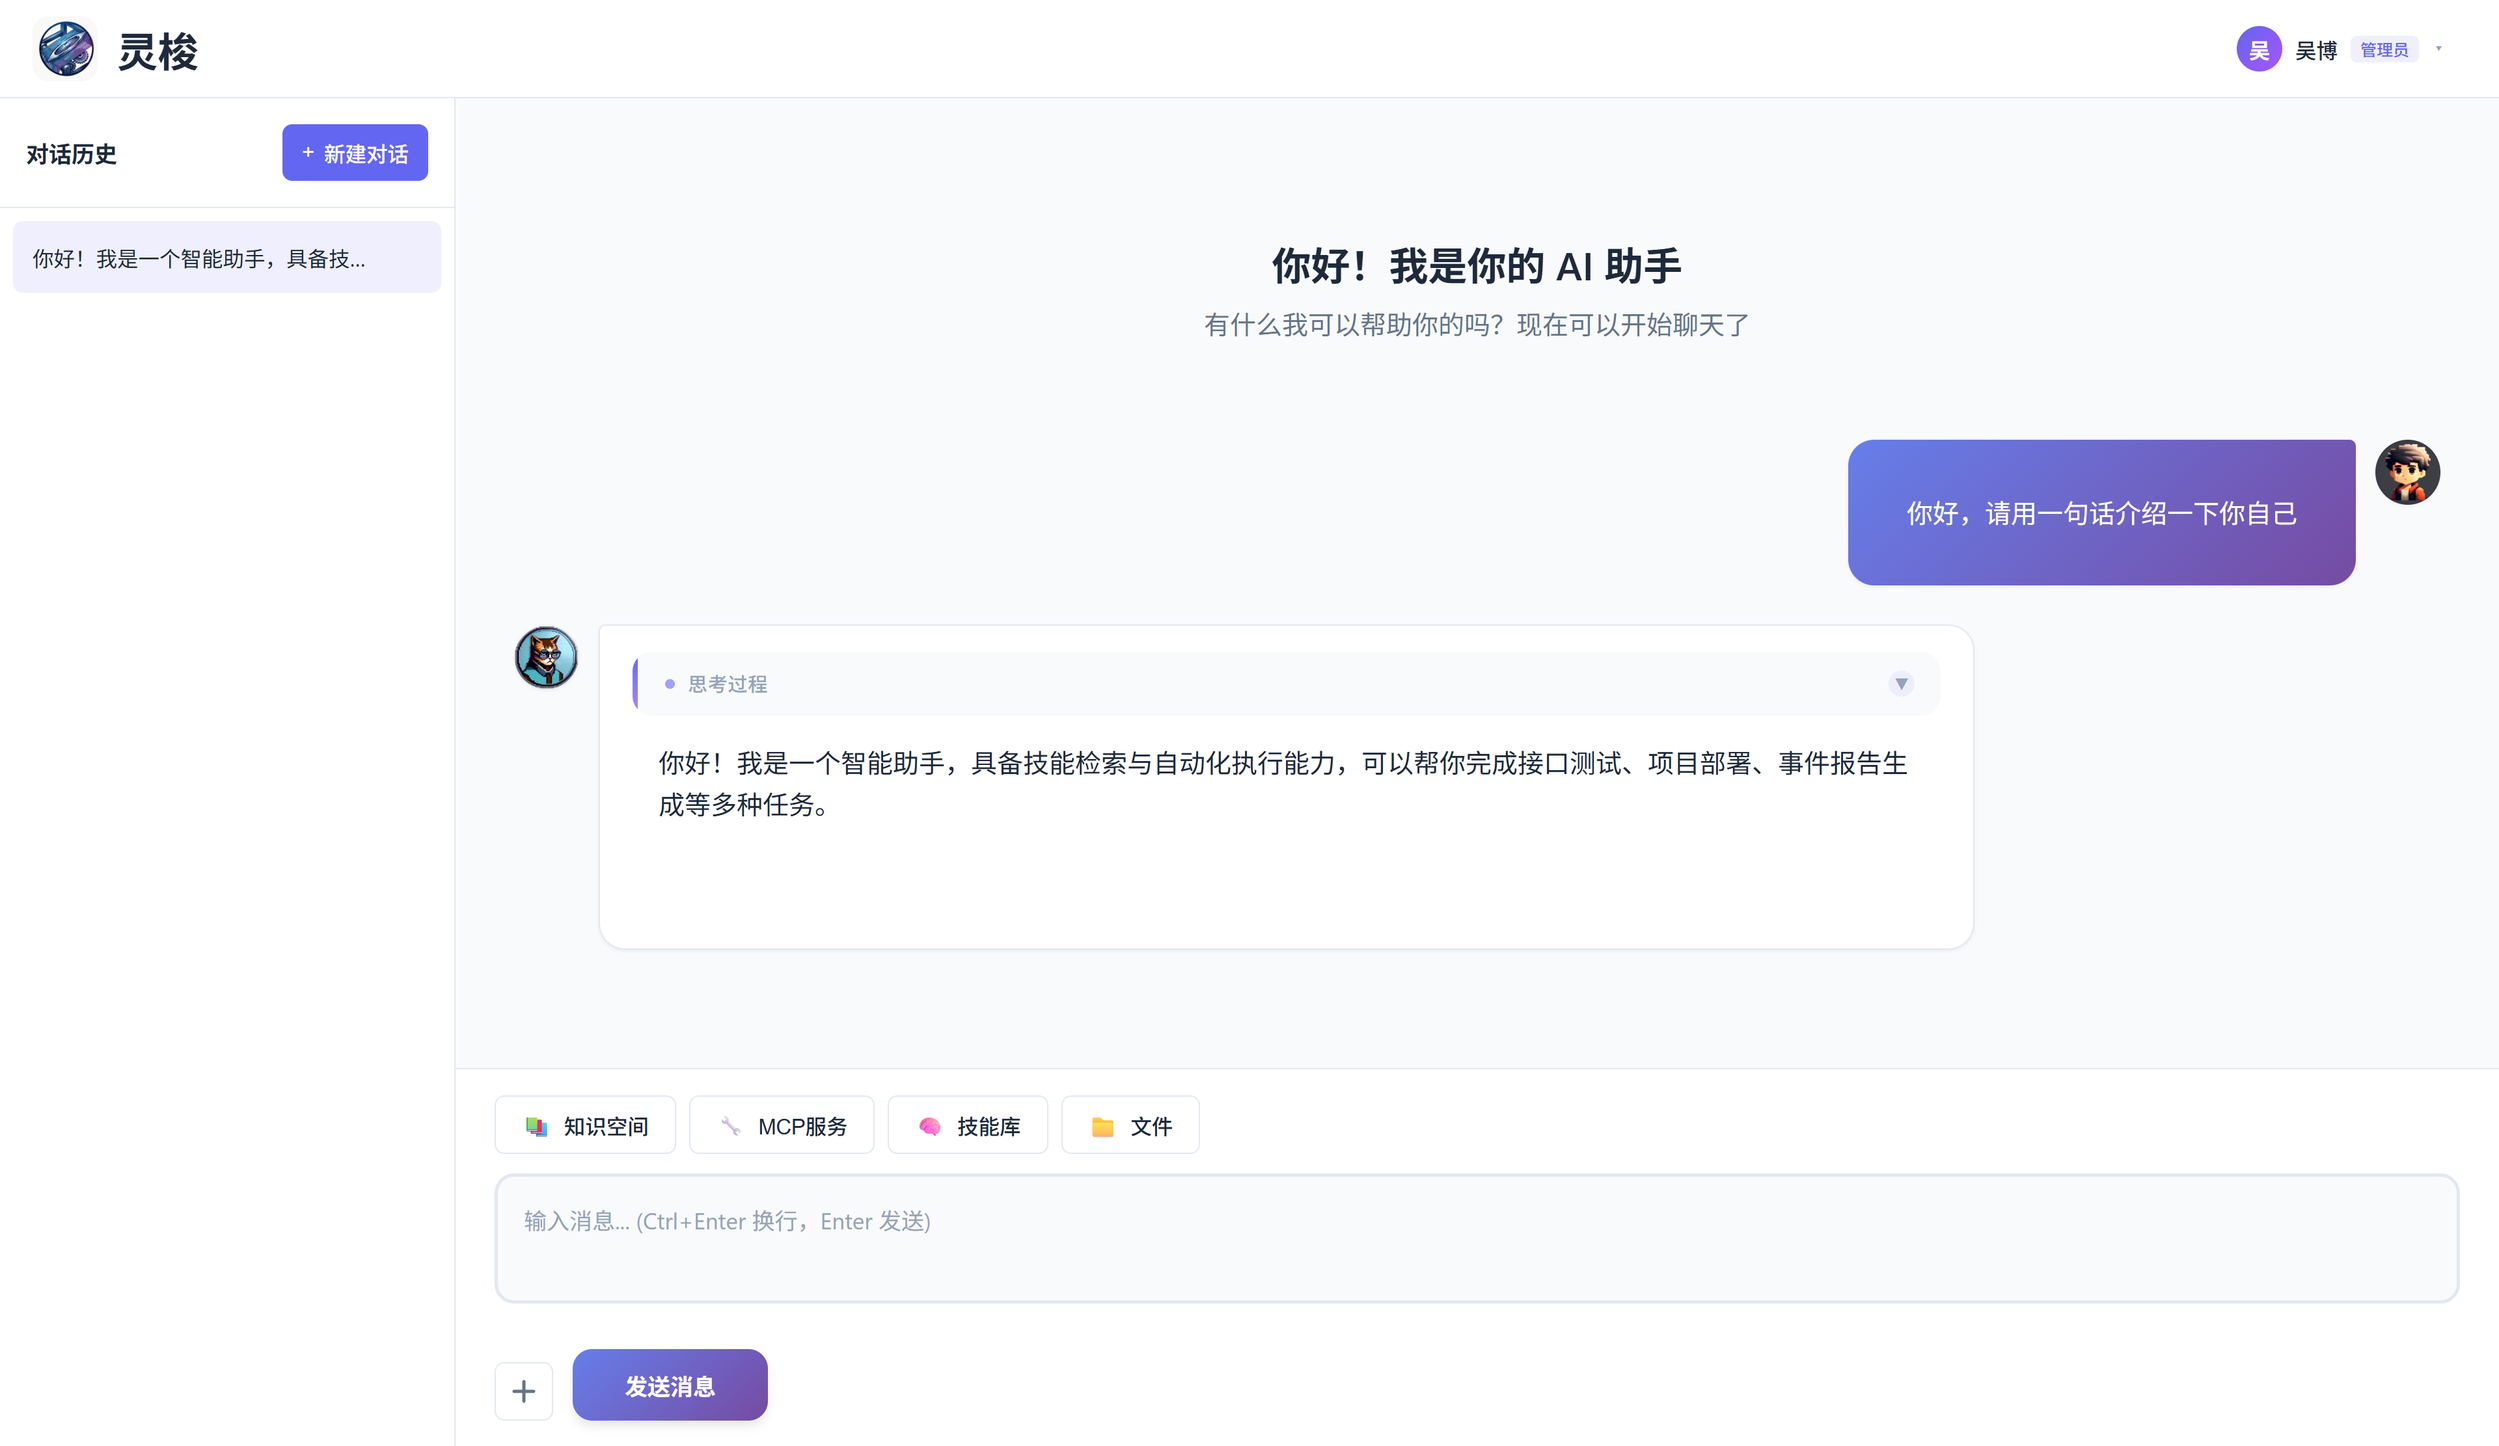
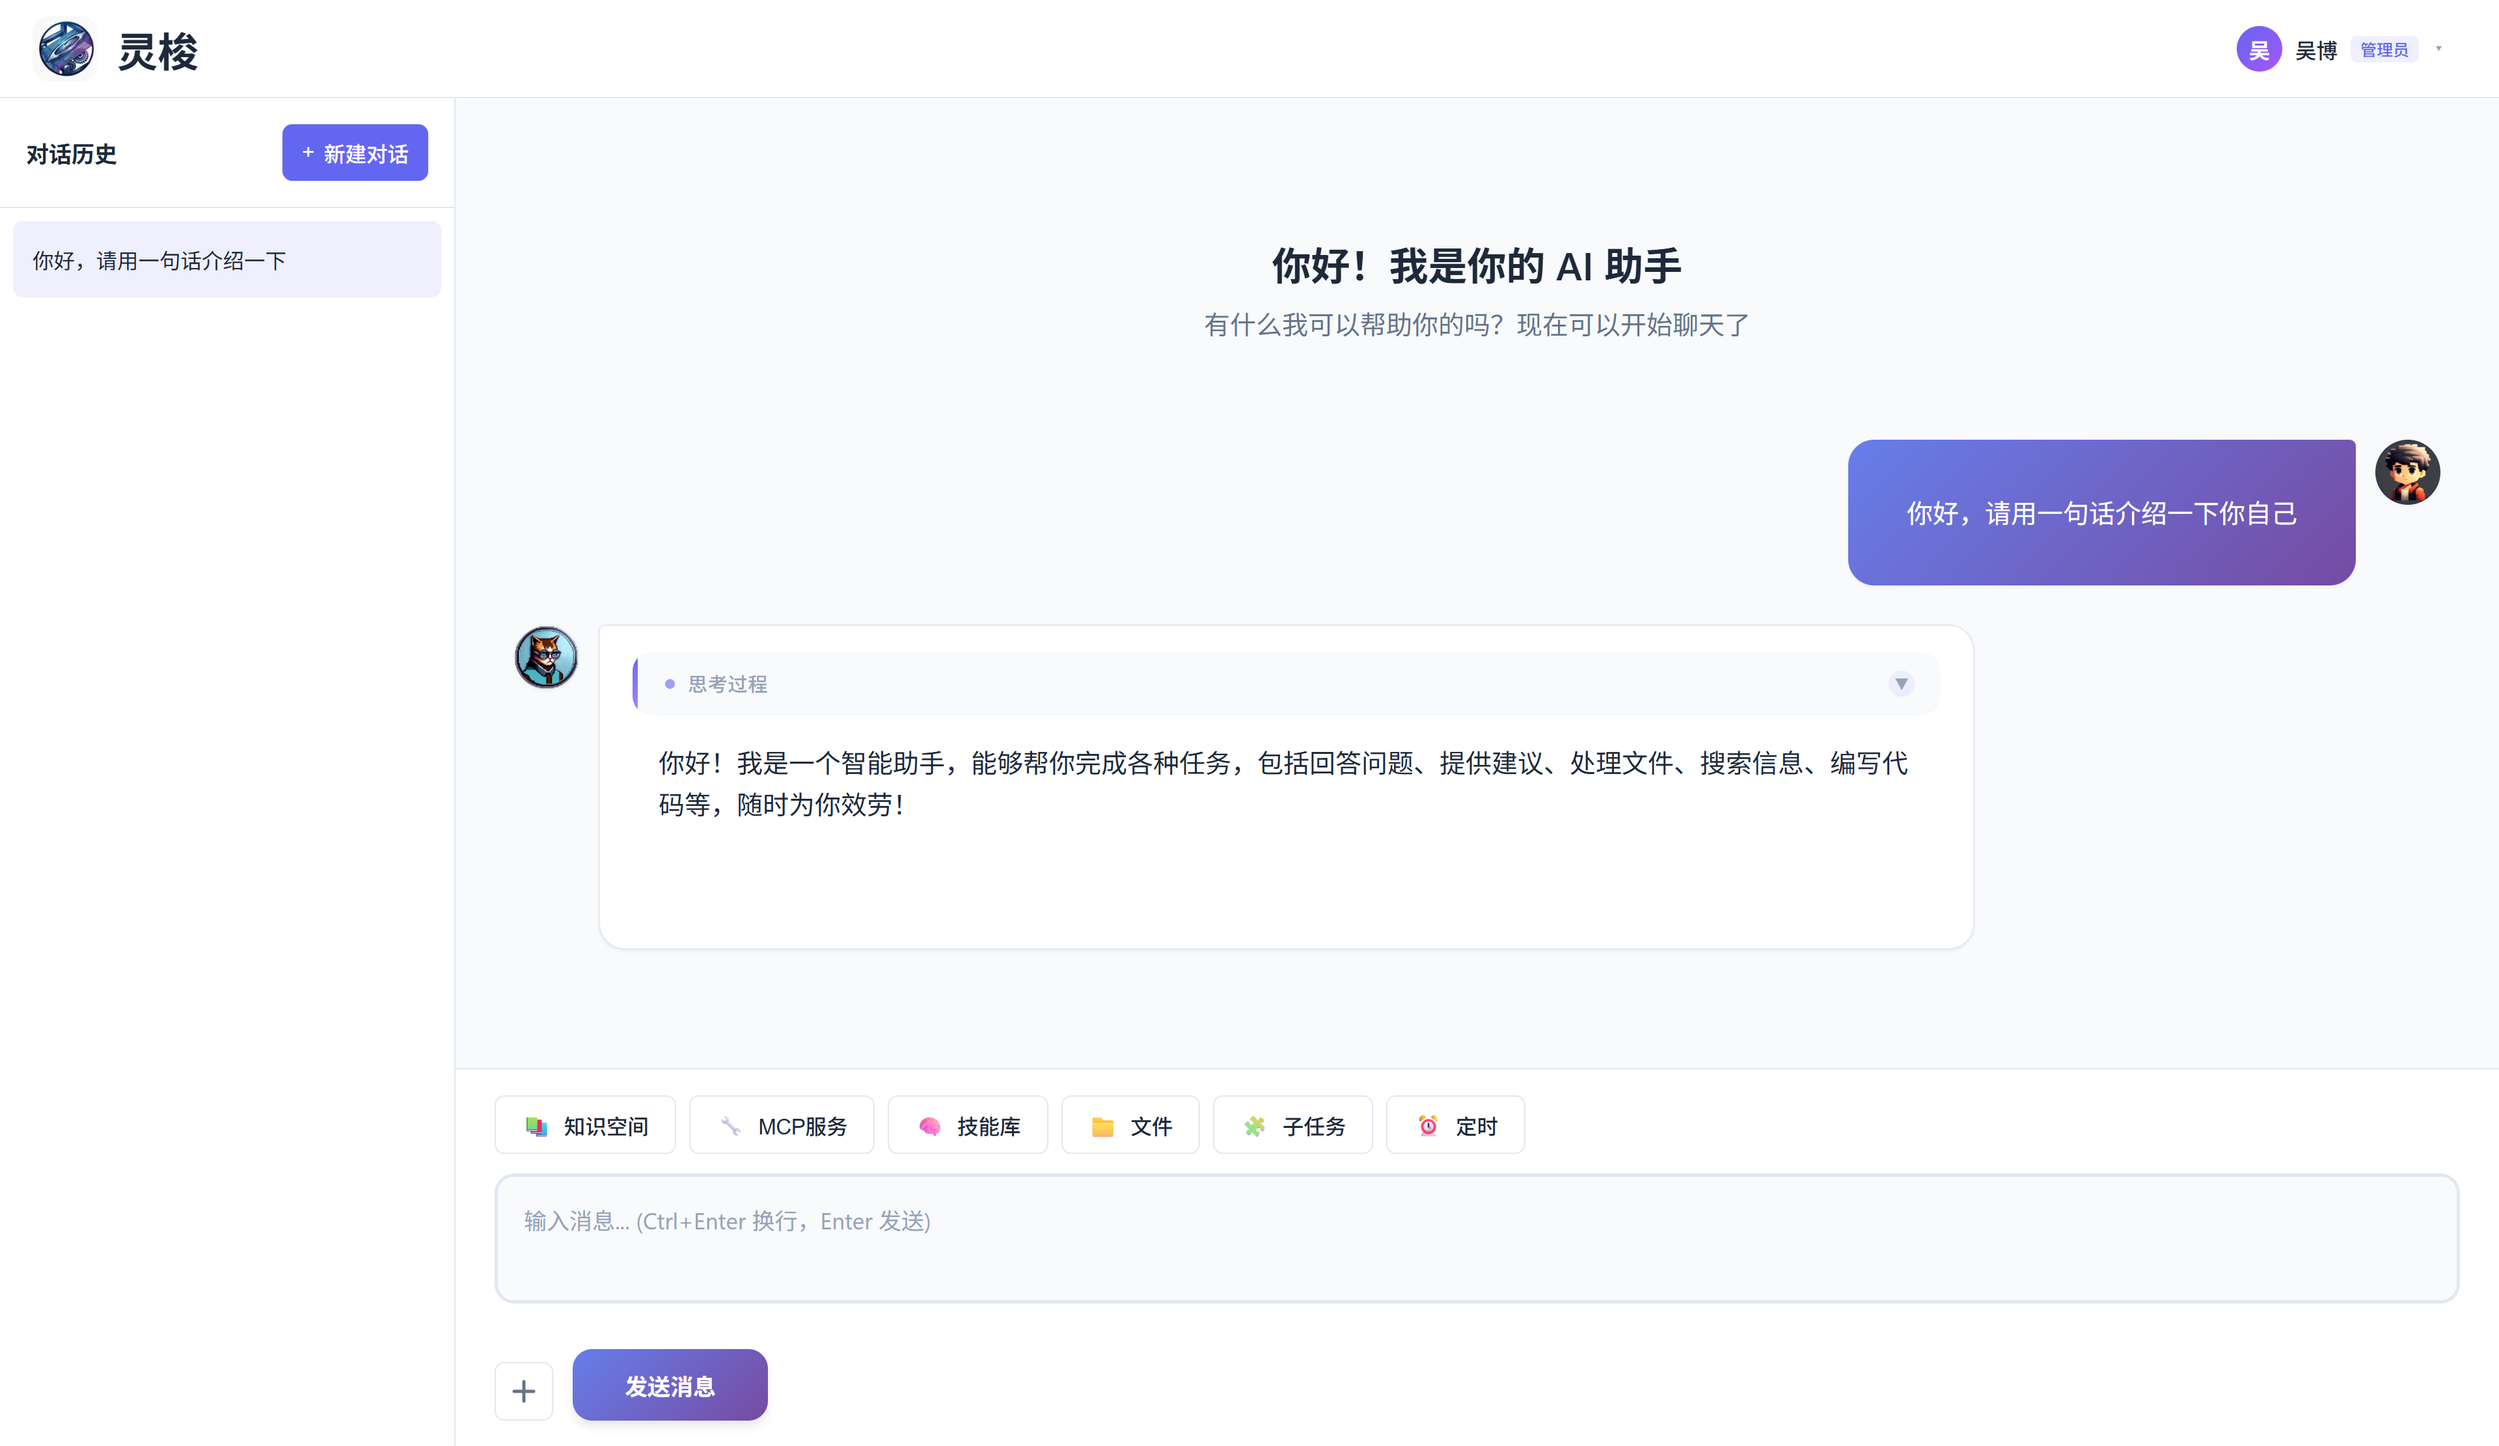
feat(conversation): 添加对话标题自动重命名功能
- 新增 conversationTitle 状态字段跟踪当前对话标题
- 实现 generateDefaultConversationTitle 函数生成带时间戳的默认标题
- 添加 looksLikeDefaultConversationTitle 函数检测默认标题格式
- 实现 deriveAutoTitleFromMessage 函数从用户消息生成自动标题
- 在创建对话时使用时间戳格式的默认标题
- 添加 maybeAutoRename 方法在发送首条消息后自动重命名
- 同步更新活动对话的标题状态
- 移除登录页面的默认账号信息显示

diff --git a/spring-ai-loom-agent/src/main/resources/META-INF/resources/spring/ai/loom/app.js b/spring-ai-loom-agent/src/main/resources/META-INF/resources/spring/ai/loom/app.js
@@ -57,6 +57,7 @@ const state = {
     nickname: null,
     userType: null, // 'ADMIN' / 'USER'
     conversationId: null,
+    conversationTitle: null, // tracks the current conversation's title to gate auto-rename
     selectedMcps: [],
     selectedKnowledgeId: null,
     selectedSkill: null,
@@ -115,6 +116,37 @@ async function apiFetch(url, options = {}) {
         auth.clear();
     }
     return resp;
+}
+
+/** Build a unique-by-moment default title for newly-created conversations.
+ *  e.g. "新对话 7-24 14:32" — two conversations opened in the same minute are
+ *  still distinguishable in the sidebar even before any message is sent. */
+function generateDefaultConversationTitle() {
+    const d = new Date();
+    const M = d.getMonth() + 1;
+    const D = d.getDate();
+    const h = d.getHours();
+    const m = String(d.getMinutes()).padStart(2, '0');
+    return `新对话 ${M}-${D} ${h}:${m}`;
+}
+
+/** Detect a still-default placeholder title (used by chat.send() to decide
+ *  whether to auto-rename from the first user message). Matches both the bare
+ *  legacy "新对话" and the timestamped variant produced by
+ *  generateDefaultConversationTitle. */
+function looksLikeDefaultConversationTitle(t) {
+    if (!t) return true;
+    const s = String(t).trim();
+    if (s === '新对话') return true;
+    return /^新对话\s+\d{1,2}-\d{1,2}\s+\d{1,2}:\d{2}$/.test(s);
+}
+
+/** Derive an auto title from the first user message (≤12 chars, collapse
+ *  whitespace, trim trailing punctuation). Falls back to "新对话" for empty input. */
+function deriveAutoTitleFromMessage(text) {
+    const flat = String(text || '').replace(/\s+/g, ' ').trim();
+    if (!flat) return '新对话';
+    return flat.length > 12 ? flat.slice(0, 12).trimEnd() : flat;
 }
 
 // ===================== §3.5 Generic Confirm / Prompt Modal =====================
@@ -1043,6 +1075,11 @@ const conversation = {
         for (const item of list) {
             const id = item.conversationId || item.id;
             const title = item.title || truncateText(item.name || '新对话', API.titleMaxLength);
+            // Keep state.conversationTitle in sync for the currently-active conversation
+            // so chat.send() can decide whether to auto-rename from the first message.
+            if (id === state.conversationId) {
+                state.conversationTitle = item.title || item.name || '新对话';
+            }
             const div = document.createElement('div');
             div.className = 'sidebar-item' + (state.conversationId === id ? ' active' : '');
             div.dataset.conversationId = id;
@@ -1088,12 +1125,14 @@ const conversation = {
             showToast('请等待 AI 回复完成', 'warning');
             return;
         }
-        const created = await api.createConversation('新对话');
+        const defaultTitle = generateDefaultConversationTitle();
+        const created = await api.createConversation(defaultTitle);
         if (!created) {
             showToast('新建对话失败', 'error');
             return;
         }
         state.conversationId = created.conversationId || created.id;
+        state.conversationTitle = defaultTitle;
         ui.clearChat();
         imageUpload.clear();
         await this.loadList();
@@ -1101,6 +1140,21 @@ const conversation = {
         // schedule modal can re-fetch the per-conversation list.
         try { subtaskPanel.setConvId(state.conversationId); } catch (_) {}
         try { schedulePanel.setConvId(state.conversationId); } catch (_) {}
+    },
+
+    /** Auto-rename from the first user message when the title is still the default
+     *  placeholder. Idempotent per session: a manually renamed conversation or one
+     *  already auto-renamed never re-fires. No-op on empty text or stale conv ids. */
+    async maybeAutoRename(convId, userText) {
+        if (!convId || !userText) return;
+        if (!looksLikeDefaultConversationTitle(state.conversationTitle)) return;
+        const autoTitle = deriveAutoTitleFromMessage(userText);
+        if (!autoTitle || autoTitle === state.conversationTitle) return;
+        const result = await api.renameConversation(convId, autoTitle);
+        if (result && result.ok) {
+            state.conversationTitle = autoTitle;
+            await this.loadList();
+        }
     },
 
     startRename(div, id, currentTitle) {
@@ -1143,6 +1197,7 @@ const conversation = {
             completed = true;
             const result = await api.renameConversation(id, title);
             if (result.ok) {
+                if (state.conversationId === id) state.conversationTitle = title;
                 await this.loadList();
                 showToast('对话已重命名', 'success');
             } else {
@@ -1297,6 +1352,10 @@ const chat = {
                     ui.enableSend();
                     ui.setStopButtonVisible(false);
                     conversation.loadList();
+                    // Auto-rename from the first user message if the conversation still
+                    // carries its default placeholder title. Fire-and-forget; the title
+                    // update will refresh the sidebar once the PATCH lands.
+                    conversation.maybeAutoRename(state.conversationId, text);
                 },
                 (error) => {
                     // error

diff --git a/spring-ai-loom-agent/src/main/resources/META-INF/resources/spring/ai/loom/login.html b/spring-ai-loom-agent/src/main/resources/META-INF/resources/spring/ai/loom/login.html
@@ -26,9 +26,6 @@
             <div id="error-msg" class="error-msg" style="display: none;"></div>
             <button type="submit" id="submit-btn" class="submit-btn">登 录</button>
         </form>
-        <div class="login-footer">
-            <span>默认账号：<code>wb04307201</code> / <code>123456</code></span>
-        </div>
     </div>
 </div>
 <script src="login.js"></script>
